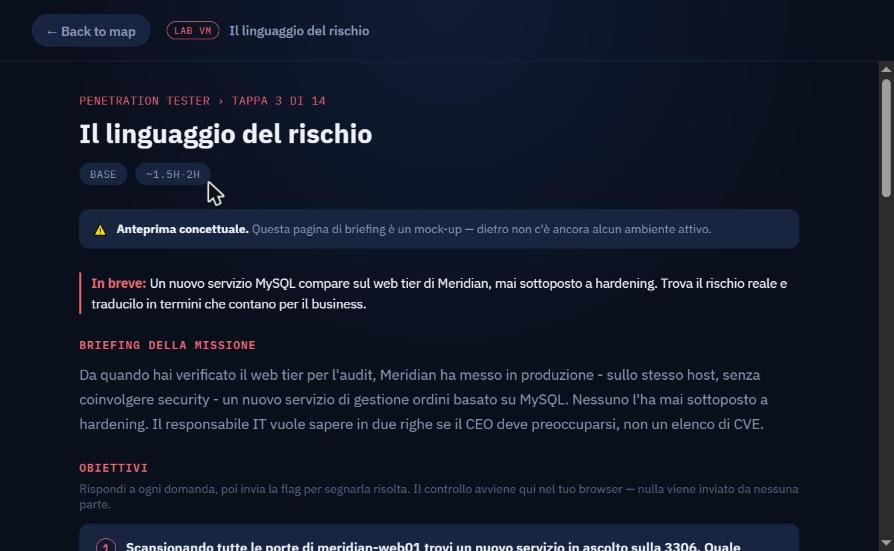
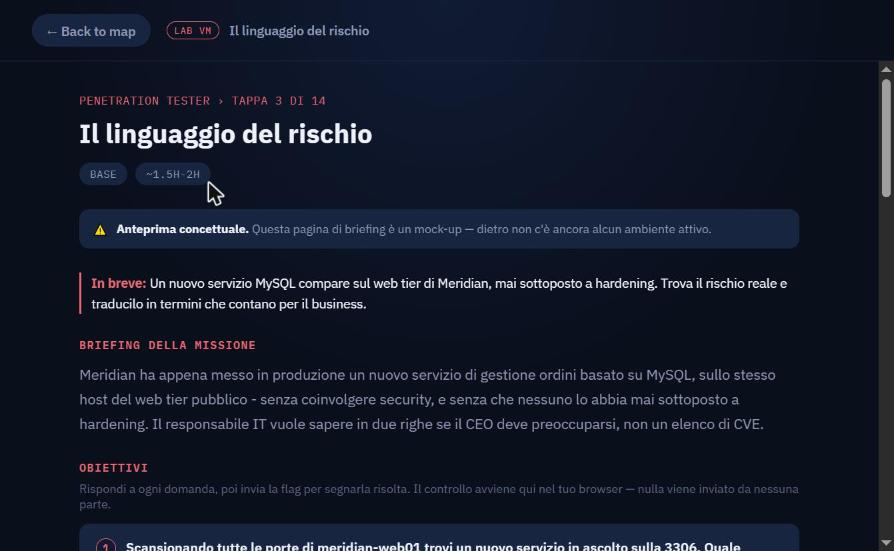
Make risk-language's story stand on its own
The briefing opened with "since you checked the web tier for the
audit" - an explicit callback to By the Book, which contradicts the
same standalone-narrative principle already applied there (commit
b675b67). Reworded the scenario in all 4 files to present the new
MySQL finding directly, with no reference to any prior lab's events.

Also reworded the PDF's "Storytelling" rationale bullet, which had
framed the narrative tie to First Contact/By the Book as deliberate -
it isn't anymore: only the infrastructure is shared, never the story.
Rebuilt the PDF with a freshly captured screenshot matching the new
briefing text.

Changed region(s): [[0.0906, 0.6479, 0.8758, 0.7405]]

diff --git a/src/indexRewIT-htb.html b/src/indexRewIT-htb.html
@@ -1468,7 +1468,7 @@
           type: "lab",
           id: "risk-language", tier: "va", labComponents: ["lxr:net-perimeter"], title: "Il linguaggio del rischio",
           summary: "Un nuovo servizio MySQL compare sul web tier di Meridian, mai sottoposto a hardening. Trova il rischio reale e traducilo in termini che contano per il business.",
-          scenario: "Da quando hai verificato il web tier per l'audit, Meridian ha messo in produzione - sullo stesso host, senza coinvolgere security - un nuovo servizio di gestione ordini basato su MySQL. Nessuno l'ha mai sottoposto a hardening. Il responsabile IT vuole sapere in due righe se il CEO deve preoccuparsi, non un elenco di CVE.",
+          scenario: "Meridian ha appena messo in produzione un nuovo servizio di gestione ordini basato su MySQL, sullo stesso host del web tier pubblico - senza coinvolgere security, e senza che nessuno lo abbia mai sottoposto a hardening. Il responsabile IT vuole sapere in due righe se il CEO deve preoccuparsi, non un elenco di CVE.",
           taskIdx: [0],
           skillIdx: [6, 8],
           knowledgeIdx: [9, 10],

diff --git a/src/indexRewIT.html b/src/indexRewIT.html
@@ -1429,7 +1429,7 @@
           type: "lab",
           id: "risk-language", tier: "va", labComponents: ["lxr:net-perimeter"], title: "Il linguaggio del rischio",
           summary: "Un nuovo servizio MySQL compare sul web tier di Meridian, mai sottoposto a hardening. Trova il rischio reale e traducilo in termini che contano per il business.",
-          scenario: "Da quando hai verificato il web tier per l'audit, Meridian ha messo in produzione - sullo stesso host, senza coinvolgere security - un nuovo servizio di gestione ordini basato su MySQL. Nessuno l'ha mai sottoposto a hardening. Il responsabile IT vuole sapere in due righe se il CEO deve preoccuparsi, non un elenco di CVE.",
+          scenario: "Meridian ha appena messo in produzione un nuovo servizio di gestione ordini basato su MySQL, sullo stesso host del web tier pubblico - senza coinvolgere security, e senza che nessuno lo abbia mai sottoposto a hardening. Il responsabile IT vuole sapere in due righe se il CEO deve preoccuparsi, non un elenco di CVE.",
           taskIdx: [0],
           skillIdx: [6, 8],
           knowledgeIdx: [9, 10],

diff --git a/src/indexRew-htb.html b/src/indexRew-htb.html
@@ -1468,7 +1468,7 @@
           type: "lab",
           id: "risk-language", tier: "va", labComponents: ["lxr:net-perimeter"], title: "The Language of Risk",
           summary: "A new MySQL service shows up on Meridian's web tier, never hardened. Find the real risk and translate it into terms the business cares about.",
-          scenario: "Since you checked the web tier for the audit, Meridian has put a new order-management service into production on the same host - without looping in security. Nobody has ever hardened it. The IT lead wants to know in two lines whether the CEO needs to worry, not a list of CVEs.",
+          scenario: "Meridian has just put a new order-management service into production, on the same host as the public web tier - without looping in security, and without anyone ever hardening it. The IT lead wants to know in two lines whether the CEO needs to worry, not a list of CVEs.",
           taskIdx: [0],
           skillIdx: [6, 8],
           knowledgeIdx: [9, 10],

diff --git a/src/indexRew.html b/src/indexRew.html
@@ -1429,7 +1429,7 @@
           type: "lab",
           id: "risk-language", tier: "va", labComponents: ["lxr:net-perimeter"], title: "The Language of Risk",
           summary: "A new MySQL service shows up on Meridian's web tier, never hardened. Find the real risk and translate it into terms the business cares about.",
-          scenario: "Since you checked the web tier for the audit, Meridian has put a new order-management service into production on the same host - without looping in security. Nobody has ever hardened it. The IT lead wants to know in two lines whether the CEO needs to worry, not a list of CVEs.",
+          scenario: "Meridian has just put a new order-management service into production, on the same host as the public web tier - without looping in security, and without anyone ever hardening it. The IT lead wants to know in two lines whether the CEO needs to worry, not a list of CVEs.",
           taskIdx: [0],
           skillIdx: [6, 8],
           knowledgeIdx: [9, 10],
